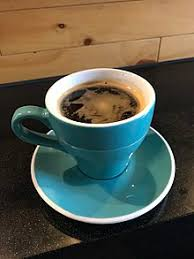
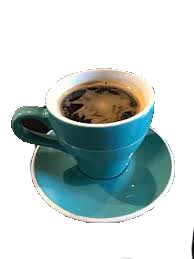
cambio en card-image , y subiendo imagen1

diff --git a/src/components/LoadDataMenu.js b/src/components/LoadDataMenu.js
@@ -3,7 +3,7 @@ import PropTypes from 'prop-types';
 
 export const LoadDataMenu = ({ info, additem, pedido, option }) => 
   (info.map((item, indice) => (option === item.type ? ( 
-  <div className="card border-success mb-3" style={{ width : "10rem"}}  key={item.id}  onClick={() => additem(item, pedido, indice)} data-testid={`${item.id}-btn`}>
+  <div className="card-group card border-success mb-3" style={{ width : "12rem"}}  key={item.id}  onClick={() => additem(item, pedido, indice)} data-testid={`${item.id}-btn`}>
   <div className="card-body text-success">
     <h5 className="card-title">{item.name}</h5>
     <img className="card-img-top" src={item.image} className="card-img-top img-icon"  alt="Card image cap" />
